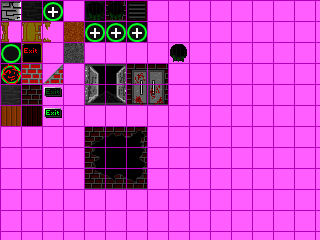
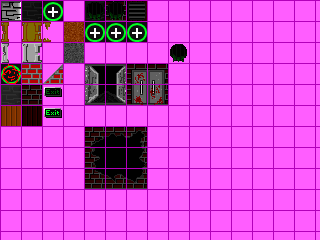
Started work on some kind of GUI framework.

Changed region(s): [[0.0, 0.175, 0.1562, 0.2625]]

diff --git a/src/com/rustbyte/Game.java b/src/com/rustbyte/Game.java
@@ -16,6 +16,7 @@ import com.rustbyte.Zombie;
 import com.rustbyte.level.*;
 import com.rustbyte.vector.Vector2;
 import com.rustbyte.gui.Frame;
+import com.rustbyte.gui.Label;
 
 public class Game {
 	public int WIDTH;
@@ -48,8 +49,12 @@ public class Game {
 	private PathFinder pf;
 	private boolean stepPathKeyPressed = false;
 	
+	private Frame playerHUD;
+	private Label playerHealthStatusLabel;
+	private Label playerMissionStatusLabel;
+	
 	private Frame testFrame;
-	private Frame testFrame2;
+	private Label bossStatusLabel;
 	
 	public Game(int wid, int hgt) {
 		this.WIDTH = wid;
@@ -58,7 +63,7 @@ public class Game {
 		colorfadeEffect = new ColorFadeEffect(0,WIDTH,HEIGHT);
 		
 		input = new InputHandler();
-		level = new Level(Art.level1, 20,20, this);
+		level = new Level(Art.level2, 20,20, this);
 				
 		level.viewX = 0;
 		level.viewY = 0;
@@ -120,7 +125,16 @@ public class Game {
 		//addEntity(new BatBoss( ((level.width * 20) / 2) + 20, 100, 62,41, null, this));
 		
 		testFrame = new Frame( WIDTH - 105, 2, 80, 15);
-		testFrame2 = new Frame( 5, 2, 120, 27);
+		testFrame.addControl( (bossStatusLabel = new Label("",0,0, 0xFFFFFF)) );
+		testFrame.init();
+		
+		playerHUD = new Frame( 5, 2, 120, 27);
+		playerHUD.addControl( (playerHealthStatusLabel = new Label("HP: 999", 10, 7, 0xFFFF00)) );
+		playerHUD.addControl( (playerMissionStatusLabel = new Label("{FFFF00}Mission: {00FF00}" + 
+																	 "99 {FFFF00}/ {FF0000}" + 
+																	 "99 {FFFF00}/ {0000FF}99", 
+																	 10, 17,0xFFFF00)) );
+		playerHUD.init();
 	}
 	
 	public void activateBoss(Mob bossMob) {
@@ -262,17 +276,17 @@ public class Game {
 		}
 		
 		if(player.alive) {
-			testFrame2.render(screen);
-			screen.drawText(Art.font, "HP: " + player.hitpoints, 10, 7,0xFFFF00, true);
-			screen.drawText(Art.font, "{FFFF00}Mission: {00FF00}" + 
+			playerHealthStatusLabel.setText("HP: " + player.hitpoints);
+			playerMissionStatusLabel.setText("{FFFF00}Mission: {00FF00}" + 
 											humansSaved + " {FFFF00}/ {FF0000}" + 
-											humansLost + " {FFFF00}/ {0000FF}" + zombiesKilled, 
-											10, 17,0xFFFF00, true);			
-			if(bossActivated) {
-				testFrame.render(screen);
+											humansLost + " {FFFF00}/ {0000FF}" + zombiesKilled);
+			
+			playerHUD.render(screen, 0, 0);
+			/*if(bossActivated) {
+				testFrame.render(screen, 0, 0);
 				screen.drawText(Art.font, "{FF0000}ENEMY: {FFFFFF}" + (boss.hitpoints < 0 ? 0 : boss.hitpoints) , 
 								screen.width - 100, 6, 0xFFFFFF, true );
-			}
+			}*/
 			
 			player.render();
 		} else {

diff --git a/src/com/rustbyte/gui/Frame.java b/src/com/rustbyte/gui/Frame.java
@@ -3,28 +3,30 @@ package com.rustbyte.gui;
 import com.rustbyte.Bitmap;
 import com.rustbyte.Art;
 
-public class Frame {
+public class Frame extends Control {
 	private final int DEFAULT_BACKGROUND_COLOR = 0x303030;
-	private int width;
-	private int height;
-	private int xpos;
-	private int ypos;
 	private int backgroundColor = DEFAULT_BACKGROUND_COLOR;
 	private Bitmap bitmap;	
 	
 	public Frame(int x, int y, int wid, int hgt) {
+		super(x,y,wid,hgt);
 		this.xpos = x;
 		this.ypos = y;
 		this.width = wid;
 		this.height = hgt;
-		this.bitmap = new Bitmap( wid, hgt);
-		
-		init();
 	}
 	
-	private void init() {
+	/*
+	 * NOTE:
+	 * This method must be called after controls are added to the frame.
+	 * Otherwise frame border/background will be incorrectly sized. 
+	 * @see com.rustbyte.gui.Control#init()
+	 */
+	public void init() {
 		int x = 0;
 		int y = 0;
+		
+		this.bitmap = new Bitmap( width, height);
 		
 		for(x=0; x < width; x++) {
 			for(y=0; y < height; y++) {
@@ -63,7 +65,9 @@ public class Frame {
 		}		
 	}
 	
-	public void render(Bitmap dest) {
-		bitmap.draw(dest, xpos, ypos, true);
+	public void render(Bitmap dest, int offsetx, int offsety) throws Exception {
+		bitmap.draw(dest, offsetx + xpos, offsety + ypos, true);
+		for(int i=0; i < children.size(); i++)
+			children.get(i).render(dest, offsetx + xpos, offsety + ypos);
 	}
 }

diff --git a/src/com/rustbyte/level/DoorTile.java b/src/com/rustbyte/level/DoorTile.java
@@ -12,12 +12,12 @@ public class DoorTile extends Tile {
 	protected boolean isOpen = false;
 	protected boolean isBroken = false;
 	private int interactTimer = 0;
-	private int openTileX = 22;
-	private int openTileY = 22;
-	private int closedTileX = 1;
-	private int closedTileY = 22;
-	private int backgroundTileX;
-	private int backgroundTileY;
+	protected int openTileX = 22;
+	protected int openTileY = 22;
+	protected int closedTileX = 1;
+	protected int closedTileY = 22;
+	protected int backgroundTileX;
+	protected int backgroundTileY;
 	
 	private FlashEffect flashEffect;
 	
@@ -26,8 +26,8 @@ public class DoorTile extends Tile {
 		this.typeID = 0x7F6A00;
 		this.blocking = true;
 		this.baseColor = 0x7F6A00;
-		this.tsetOffsetX = 1;
-		this.tsetOffsetY = 22;
+		this.tsetOffsetX = closedTileX;
+		this.tsetOffsetY = closedTileY;
 		this.flashEffect = new FlashEffect(0xFFFFFF, 5, wid,hgt);
 	}
 	@Override

diff --git a/src/com/rustbyte/level/LevelExitTile.java b/src/com/rustbyte/level/LevelExitTile.java
@@ -11,6 +11,14 @@ public class LevelExitTile extends DoorTile {
 	
 	public LevelExitTile(int x, int y, int wid, int hgt, Level lev) {
 		super(x, y, wid, hgt, lev);
+
+		this.closedTileX = 1;
+		this.closedTileY = 43;
+		this.openTileX = 22;
+		this.openTileY = 43;
+		this.baseColor = 0xFFFFFF;
+		this.tsetOffsetX = closedTileX;
+		this.tsetOffsetY = closedTileY;
 	}
 
 	@Override
@@ -41,6 +49,7 @@ public class LevelExitTile extends DoorTile {
 	public void takeDamage(Entity e, int amount) {
 		// This door cannot be harmed.
 		// overriden to hide inherited method.
+		addImpactParticles(e, amount);
 	}
 	
 	@Override

diff --git a/src/com/rustbyte/level/Tile.java b/src/com/rustbyte/level/Tile.java
@@ -92,11 +92,15 @@ public class Tile implements Destructable {
 		// Override in subclasses.
 	}
 
-	@Override
-	public void takeDamage(Entity source, int amount) {		
+	protected void addImpactParticles(Entity source, int amount) {
 		double px = (this.tx * this.width) + this.halfWidth + (this.halfWidth * -source.facing);
 		double py = source.yy;	
 		ParticleEmitter pe = new ParticleEmitter(px, py, -(double)source.facing, -1.0, 1, 5, baseColor, null, level.game);
 		level.game.addEntity(pe);		
+	}
+	
+	@Override
+	public void takeDamage(Entity source, int amount) {		
+		addImpactParticles(source, amount);
 	}
 }

diff --git a/src/com/rustbyte/Skeleton.java b/src/com/rustbyte/Skeleton.java
@@ -111,7 +111,7 @@ public class Skeleton extends Mob {
 							if(t != null && t.blocking) {
 								System.out.println("Roof/floor blocking my path!");
 								currentTarget = null;
-							}
+							} 
 						}
 					}					
 				}
